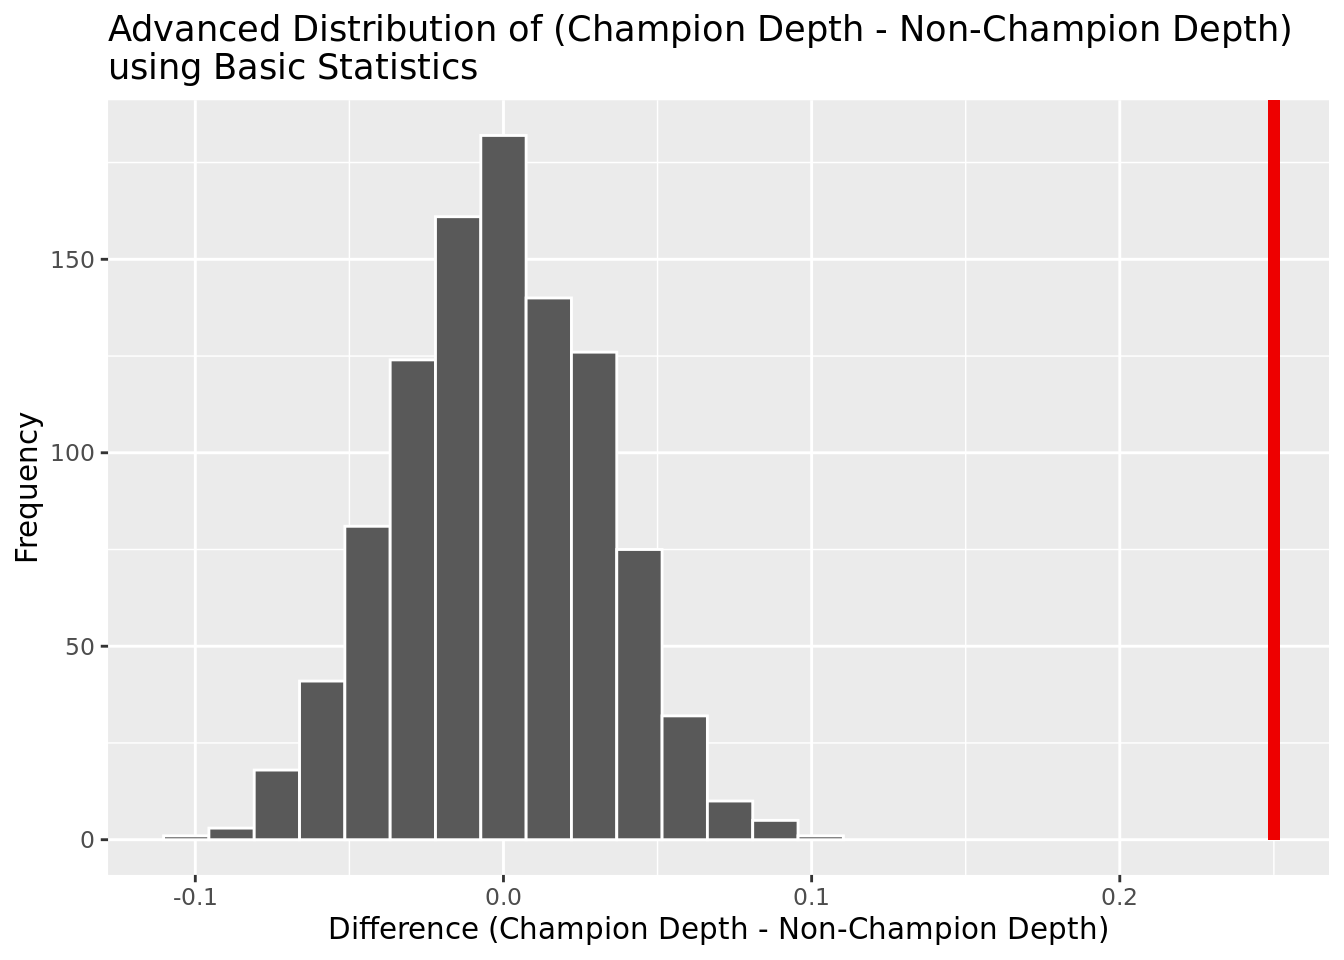
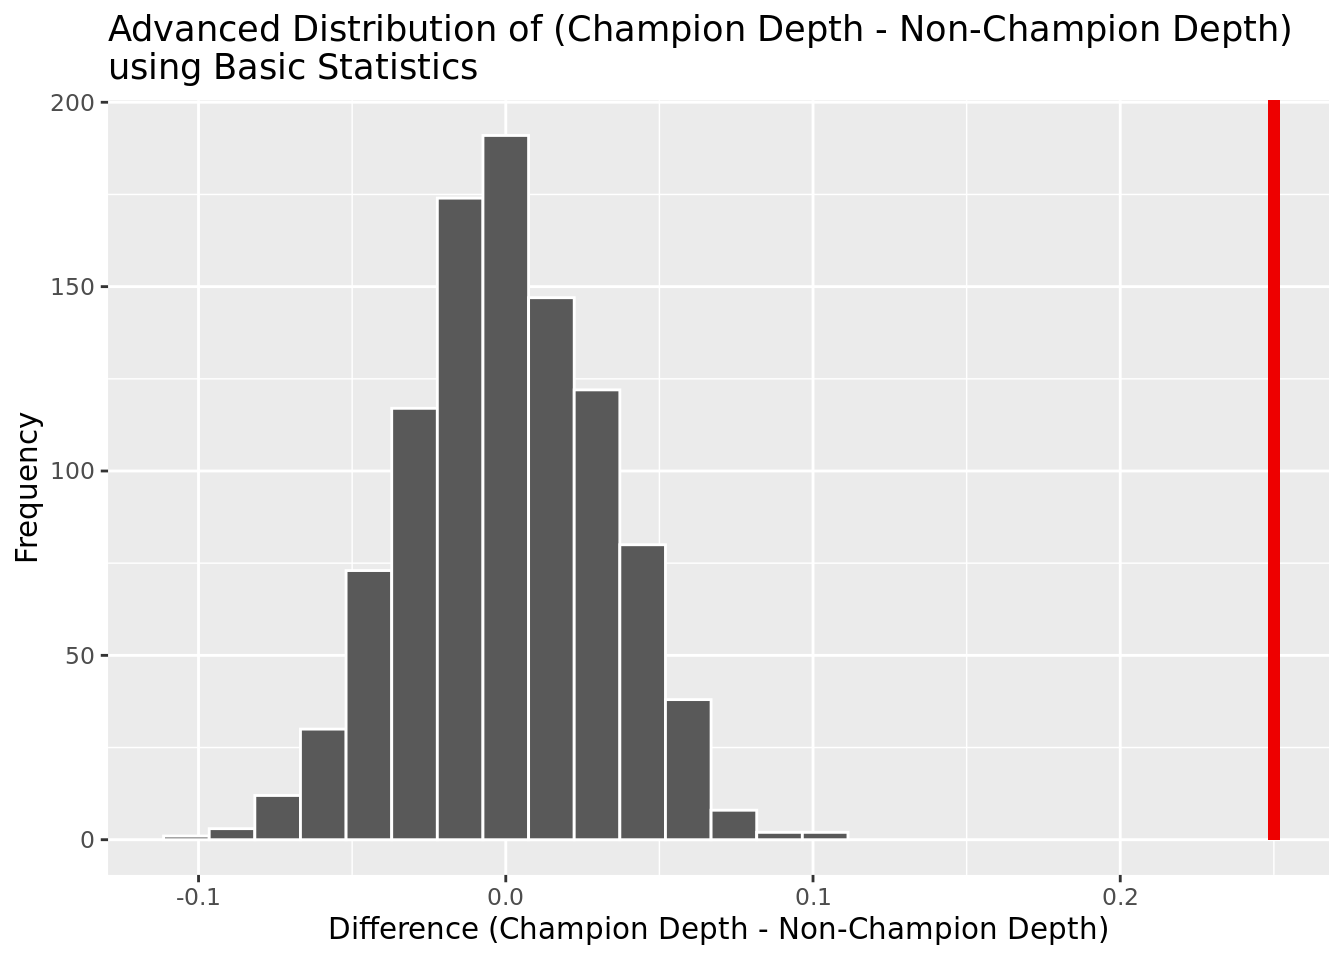
Tester

diff --git a/docs/report.html b/docs/report.html
@@ -163,7 +163,14 @@ code span.wa { color: #60a0b0; font-weight: bold; font-style: italic; } /* Warni
 <!-- sidebar -->
 <!-- margin-sidebar -->
     <div id="quarto-margin-sidebar" class="sidebar margin-sidebar">
-        
+        <nav id="TOC" role="doc-toc" class="toc-active">
+    <h2 id="toc-title">On this page</h2>
+   
+  <ul>
+  <li><a href="#data-cleaning-done-above" id="toc-data-cleaning-done-above" class="nav-link active" data-scroll-target="#data-cleaning-done-above">Data Cleaning (Done Above)</a></li>
+  <li><a href="#quantification-of-team-depth-using-basic-stats-advanced-stats-and-combo-stats" id="toc-quantification-of-team-depth-using-basic-stats-advanced-stats-and-combo-stats" class="nav-link" data-scroll-target="#quantification-of-team-depth-using-basic-stats-advanced-stats-and-combo-stats">Quantification of Team Depth using Basic Stats, Advanced Stats, and Combo Stats</a></li>
+  </ul>
+</nav>
     </div>
 <!-- main -->
 <main class="content" id="quarto-document-content">
@@ -189,6 +196,18 @@ code span.wa { color: #60a0b0; font-weight: bold; font-style: italic; } /* Warni
 <div class="sourceCode cell-code" id="cb1"><pre class="sourceCode r code-with-copy"><code class="sourceCode r"><span id="cb1-1"><a href="#cb1-1" aria-hidden="true" tabindex="-1"></a><span class="fu">library</span>(tidyverse)</span>
 <span id="cb1-2"><a href="#cb1-2" aria-hidden="true" tabindex="-1"></a><span class="fu">library</span>(tidymodels)</span></code><button title="Copy to Clipboard" class="code-copy-button"><i class="bi"></i></button></pre></div>
 </div>
+<p>Introduction:</p>
+<p>The National Basketball Association (NBA) is the most popular premiere basketball league in the world. It produces data from every one of the 400-500 players in the league every season, leading to several million datapoints across NBA history. Every year, many models are developed to evaluate team strength and predict the success of the team.</p>
+<p>Team depth is the overall quality of players in a sports team, especially those besides the team’s star players. A team with good depth has competent players on both their starting lineup and their bench, which allows the team to withstand injuries and to have more flexibility for strategic adjustments. However, despite the importance of team depth, there is no established metric to measure it in the NBA. Quantitative analysis of the connection between team depth and team success is still missing. It is an often overlooked variable that significantly contributes to the over-all strength of the team. Performing an analysis on this question allow us to develop a systematic method to better understand and assess this often-neglected factor.</p>
+<p>In this study, we investigate if the championship winning teams have a greater depth than the rest of the field using NBA play-off data from 1990-2022 collected by Robert Sunderhaft, who webscraped it from Basketball Reference, a public database of NBA statistics collated by Sports Reference LLC. In the dataset, we use 3 different methods to quantify team depth: (1) Basic statistics approach, (2) Advanced statistics, (3) Combo of Basic and Advanced statistics. We hypothesize that with all 3 measurements, the depths of championship winning teams would be significantly higher than those of the other teams because team depth has a positive effect on the team’s performance. If this hypothesis holds true and the team depth does have an effect on championship, we will identify the quantification of team depth that resulted in the smallest p value (greatest significant difference). We will then fit this team depth metric to a logistic model to predict whether the team wins the championship, showing the real-life application of our statistical finding.</p>
+<p>Data background</p>
+<p>This research aims to develop a systematic way to evaluate team depth using the NBA play-off data from 1950-2022. We will then investigate its effect on the final results of the championship. To evaluate team depth, we will look at variables such as the points by bench players, numbers of bench players, field goal percentage of role players. We will also ask questions such as are the player minutes evenly-spreaded, and are all the positions well-subsituted, to evaluate the depth of the team. Eventually, we will assign relative scores for team depth and evaluate its association with final championship results.</p>
+<p>The only ethical issue that arises with this use of this data set is that “basketball skill” is not a guaranteed, easily predictable variable and can change with each game. For example, a player can have an off day and thus have a dip in stats. That is why there is a high probability that any quality of play predictions made based off of these statistics is largely speculatory and could vary for any given game.</p>
+<p>Another issue that arises is that some data, like percentages, blocks, turnovers, and other advanced statistics, weren’t collected for players early in this dataset, so there are null values instead.</p>
+<p>In regards to this specific data set and the questions that we are addressing, the null hypothesis states that the true squad depth for champions minus the true squad depth for non-champions will equal zero, meaning that there is no statistical difference between the two measured teams. Our alternate hypothesis is that the true squad depth for champions minus the true squad depth for non-champions will be greater than zero, signifying a significant statistical relationship. This means that we can reject the null hypothesis if we were to get a p-value less than .05 and we cannot fail to reject it if it is greater than .05.</p>
+<p>Literature Review: Published credible article: “Predicting the Outcome of NBA Playoffs Based on the Maximum Entropy Principle” (Cheng et al.) https://www.mdpi.com/1099-4300/18/12/450</p>
+<p>Summary</p>
+<p>Cheng et al.&nbsp;developed a machine learning model that utilized maximum entropy principle to predict the outcome of nba play-off results using 14 basic technical features, such as 3 points, field goals, and number of steals. Their model reached an accuracy of 74.4%, which outperformed the previous state-of-the-art with 70% accuracy. The author reasoned that this increase of performance came from the maximum entropy principle as well as their consideration of the team’s last 6 game’s data which gave a more detailed depiction of team’s strength at the specific time before the play-off game. Among the 14 features that they considered, team depth was not included. We believe that the team depth is a great factor that impacts the result of the play-off games. And if our hypothesis is true, the team depth variable could be a valuable addition to Cheng et al.’s machine learning to improve their accuracy.</p>
 <div class="cell">
 <div class="sourceCode cell-code" id="cb2"><pre class="sourceCode r code-with-copy"><code class="sourceCode r"><span id="cb2-1"><a href="#cb2-1" aria-hidden="true" tabindex="-1"></a>AAAW_playoff_stats <span class="ot">&lt;-</span> <span class="fu">read_csv</span>(<span class="st">"data/AAAW_updatedplayoffStats.csv"</span>)</span></code><button title="Copy to Clipboard" class="code-copy-button"><i class="bi"></i></button></pre></div>
 <div class="cell-output cell-output-stderr">
@@ -291,6 +310,50 @@ $ ws_per_48        &lt;dbl&gt; 0.228, -0.104, 0.094, 0.049, 0.049, 0.063, 0.182,
 <span id="cb9-2"><a href="#cb9-2" aria-hidden="true" tabindex="-1"></a>  <span class="fu">filter</span>(g <span class="sc">&gt;=</span> <span class="dv">4</span>,</span>
 <span id="cb9-3"><a href="#cb9-3" aria-hidden="true" tabindex="-1"></a>         mp_per_g <span class="sc">&gt;=</span> <span class="dv">10</span>)</span></code><button title="Copy to Clipboard" class="code-copy-button"><i class="bi"></i></button></pre></div>
 </div>
+<p>Methodology</p>
+<section id="data-cleaning-done-above" class="level3">
+<h3 class="anchored" data-anchor-id="data-cleaning-done-above">Data Cleaning (Done Above)</h3>
+<ol type="1">
+<li><p>Reorder the dataset in such a way that it is done by team by year. Filter out all players who played less than 10 minutes per game and all years before 1990.</p></li>
+<li><p>Append new row of champions by year</p></li>
+</ol>
+</section>
+<section id="quantification-of-team-depth-using-basic-stats-advanced-stats-and-combo-stats" class="level3">
+<h3 class="anchored" data-anchor-id="quantification-of-team-depth-using-basic-stats-advanced-stats-and-combo-stats">Quantification of Team Depth using Basic Stats, Advanced Stats, and Combo Stats</h3>
+<p>We quantify team depth use this general equation: #Quality Player / #Rotation Player (players with more than 10 minutes per game on average). We propose 3 different ways to define quality player, thus creating 3 ways to quantify team depth</p>
+<ol type="1">
+<li><p>Basic Stats:&nbsp;</p>
+<ol type="1">
+<li><p>Points Per 36 minutes: (points per game / minutes per game) *36 &gt; 16 OR</p></li>
+<li><p>Rebounds Per 36 minutes: (rebounds per game / minutes per game) *36 &gt; 6.5 OR</p></li>
+<li><p>Assists Per 36 minutes: (assists per game / minutes per game) *36 &gt; 3.5</p></li>
+</ol></li>
+<li><p>Advanced Stats</p>
+<ol type="1">
+<li><p>Player Efficiency Rating &gt;=15&nbsp;</p>
+<ol type="1">
+<li><p>Player Efficiency Rating = (PTS + REB + AST + STL + BLK − Missed FG − Missed FT - TO) / GP.</p></li>
+<li><p>This is already calculated in the dataset.</p></li>
+</ol></li>
+</ol></li>
+</ol>
+<p>OR</p>
+<ol start="2" type="1">
+<li><p>Win Share per 48 min &gt; 0.1</p>
+<ol type="1">
+<li><p>Based on the statistical contribution of everyone on the team, the total number of wins on the team gets proportionally distributed to each player, and we calculate the win shares each player contributed per 48 minutes (1 game)</p></li>
+<li><p>This is already calculated in the dataset</p></li>
+</ol></li>
+</ol>
+<!-- -->
+<ol start="3" type="1">
+<li>Combo: players must meet both the requirement of basic stats and advanced stats to be considered as quality player</li>
+</ol>
+<p><br>
+</p>
+<p>We will use these 3 methods to define quality players and subsequently team depth (#Quality Players / #Rotation Players). These 3 quantifications of team depth will each be tested to see if championship winning teams would have a significantly higher team depth.</p>
+<p><br>
+</p>
 <p>Part 1: Basic stats</p>
 <div class="cell">
 <div class="sourceCode cell-code" id="cb10"><pre class="sourceCode r code-with-copy"><code class="sourceCode r"><span id="cb10-1"><a href="#cb10-1" aria-hidden="true" tabindex="-1"></a>NBA_df_basic <span class="ot">&lt;-</span> NBA_df <span class="sc">|&gt;</span></span>
@@ -422,7 +485,7 @@ $ ws_per_48        &lt;dbl&gt; 0.228, -0.104, 0.094, 0.049, 0.049, 0.063, 0.182,
 <pre><code># A tibble: 1 × 1
   p_value
     &lt;dbl&gt;
-1   0.067</code></pre>
+1   0.045</code></pre>
 </div>
 </div>
 <p>Part 2: Advanced Stats</p>
@@ -654,6 +717,7 @@ approximation based on the number of `reps` chosen in the `generate()` step. See
 </div>
 
 
+</section>
 
 </main> <!-- /main -->
 <script id="quarto-html-after-body" type="application/javascript">
